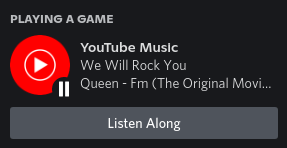
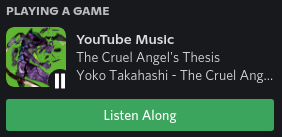
Updated README, screenshots, JSON fields description

diff --git a/src/parse.h b/src/parse.h
@@ -16,6 +16,7 @@
     - "position": (optional) number of millis transcurred since the start of the song 
     - "duration": (optional) number of millis representing the duration of the song
     - "url": (optional) the link to the song in YouTube Music
+    - "img_url": (optional) the link to the album cover of the currently playing song
 */
 
 #include "../include/json.hpp"
@@ -35,7 +36,7 @@ PyObject* getMetadataHistory (std::string track_name, PyObject *ytmusic); // TOD
 /*
  * Parses the JSON received in a request, checks for validity, and builds an
  * `upd_struct` element containing the information.
- * Calls getUrl() if no url provided in the request.
+ * Calls getMetadataHistory() if no url or cover image url provided in the request.
  * Once all possible fields filled, calls updateDiscordPresence() to update
  * the Rich Presence status in Discord.
  * Returns 1 on error, 0 on success.

diff --git a/src/parse.cpp b/src/parse.cpp
@@ -1,6 +1,5 @@
 #include <stdio.h>
 #include <utility>
-#include <iostream>
 
 #include "parse.h"
 #include "presence.h"

diff --git a/README.md b/README.md
@@ -57,6 +57,7 @@ The program expects HTTP requests with a JSON formatted content. It really just 
 * `duration`: **\[optional\]** An integer representing the duration of the song, expressed in millis.
 * `position`: **\[optional\]** An integer representing the amount of time elapsed from the start of the song, expressed in millis. Both `duration` and `position` need to be provided to show any time-related information.
 * `url`: **\[optional\]** A *VALID* link to the song. If the provided link is invalid, rich presence may not be shown. Otherwise if missing, it will be automatically fetched from the song history if the authentication headers are properly setup.
+* `img_url`: **\[optional\]** A *VALID* link to an image of the album cover for the currently playing song. If missing, it will be automatically fetched in the same way described for the `url`. Thanks to the user [Bas950](https://github.com/Bas950) for [this commit](https://github.com/PreMiD/Presences/commit/b90ed56099c56220571f6b85b1f046e600e592a5#diff-8ddd6dbf8e05c89eb790399a539a8c6fc14fda6a18135104784447b036cb2b46) to the PreMiD YouTube Music integration in the [Presences repo](https://github.com/PreMiD/Presences), as it brought me info about Discord allowing for links to be used in presences, and how to implement it.
 
 # Set up Xorg and Discord
 
